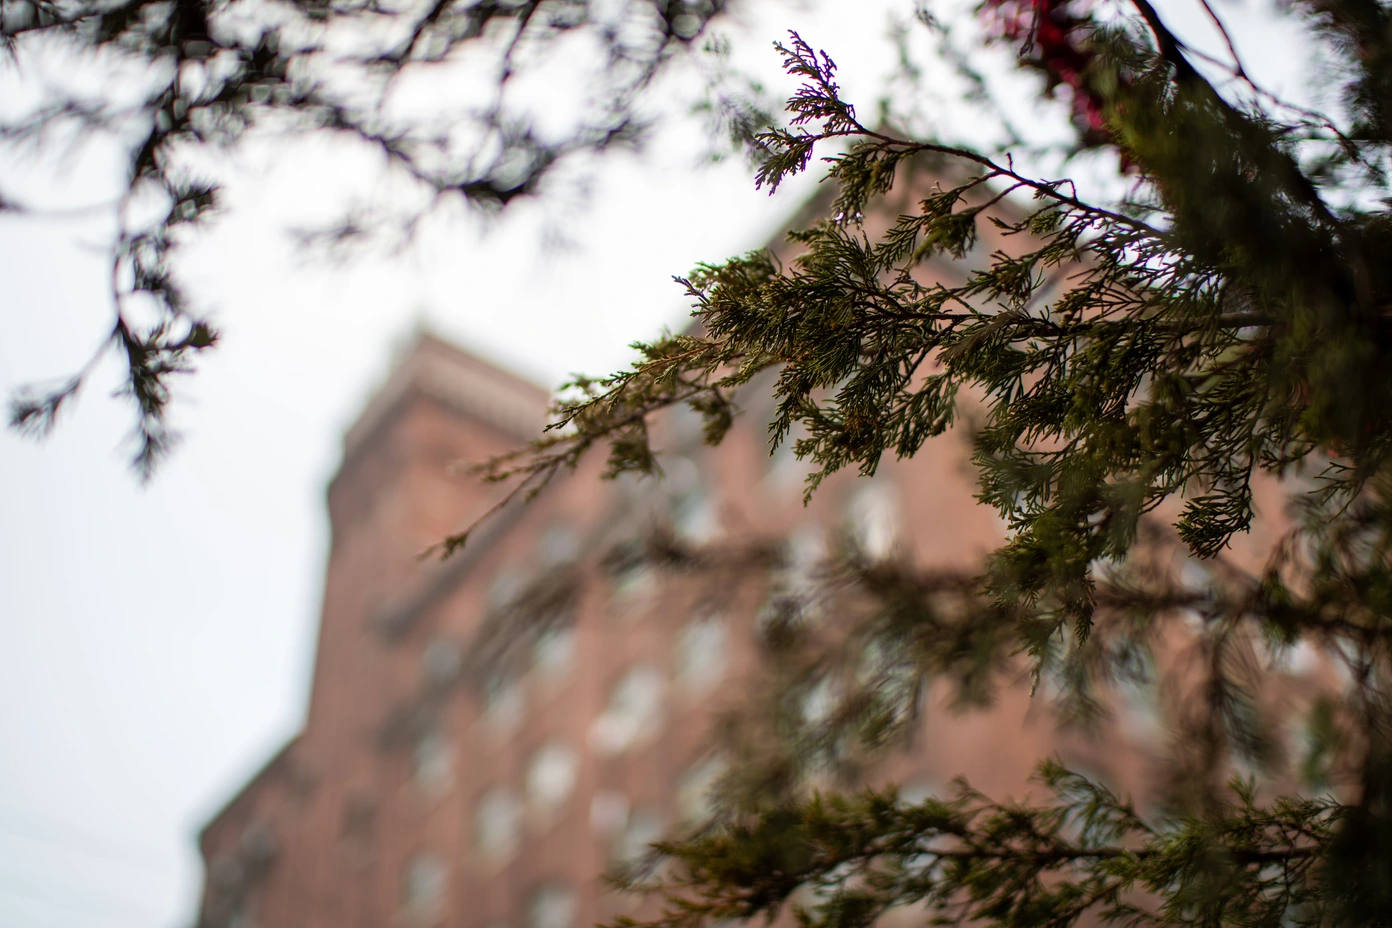
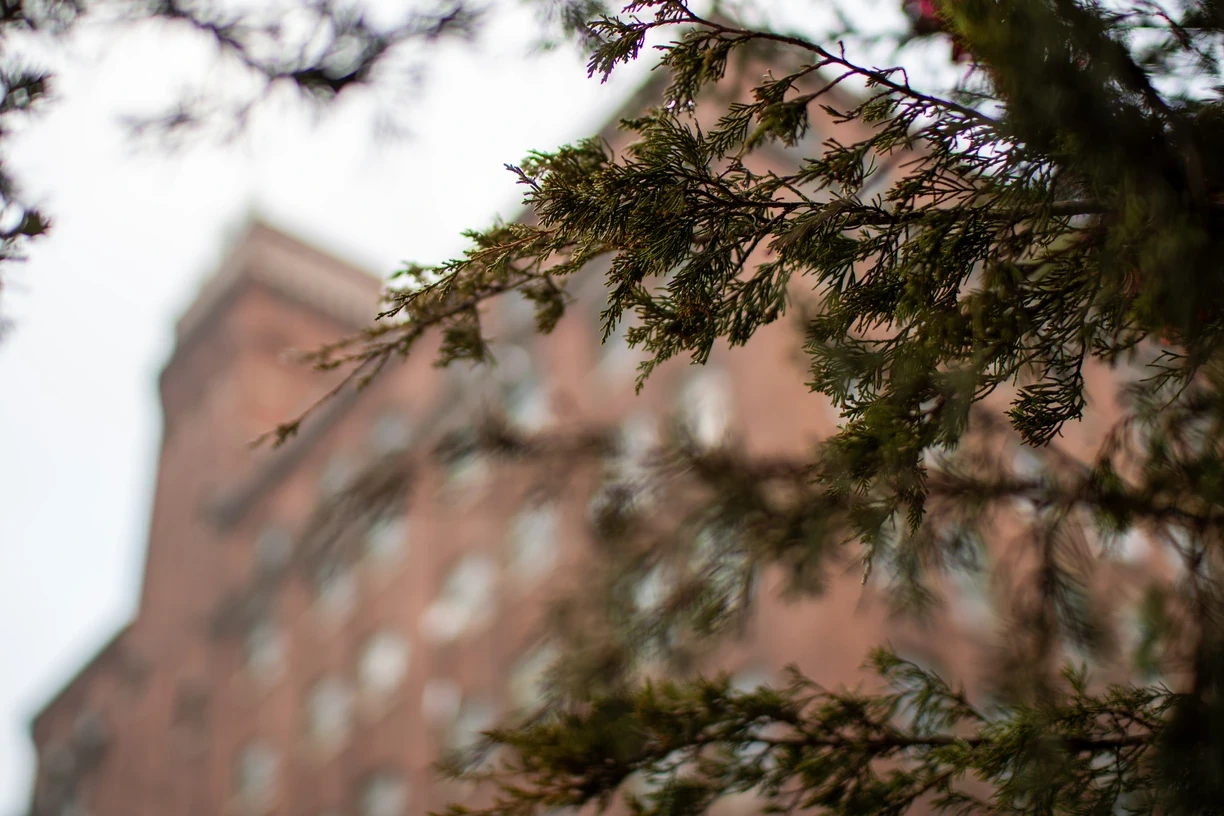
Serving thumbnails based on screen size.

diff --git a/README.md b/README.md
@@ -7,7 +7,12 @@ icons by feathericons: https://feathericons.com/
 
 Full Image Conversion Command: `E:\Downloads\libwebp-1.5.0-windows-x64\libwebp-1.5.0-windows-x64\bin\cwebp.exe -q 95 infile.jpg -o outfile.webp`
 Resize for thumb: `E:\Downloads\libwebp-1.5.0-windows-x64\libwebp-1.5.0-windows-x64\bin\cwebp.exe -resize 864 0 -q 80 infile.webp -o ../thumbs/outfile.webp`
-
+Resizing thumbs for smaller screens: 
+    ```
+    E:\Downloads\libwebp-1.5.0-windows-x64\libwebp-1.5.0-windows-x64\bin\cwebp.exe -resize 600 0 IMG_0580.webp -o ../thumbs/IMG_0580-small.webp
+    E:\Downloads\libwebp-1.5.0-windows-x64\libwebp-1.5.0-windows-x64\bin\cwebp.exe -resize 1200 0 IMG_0580.webp -o ../thumbs/IMG_0580-medium.webp
+    ```
+ 
 Install dependencies: `npm -i`
 Start tailwind watching: `npx tailwindcss -i ./src/input.css -o ./public/assets/css/output.css --watch`
 Start Server: `npm run start`
